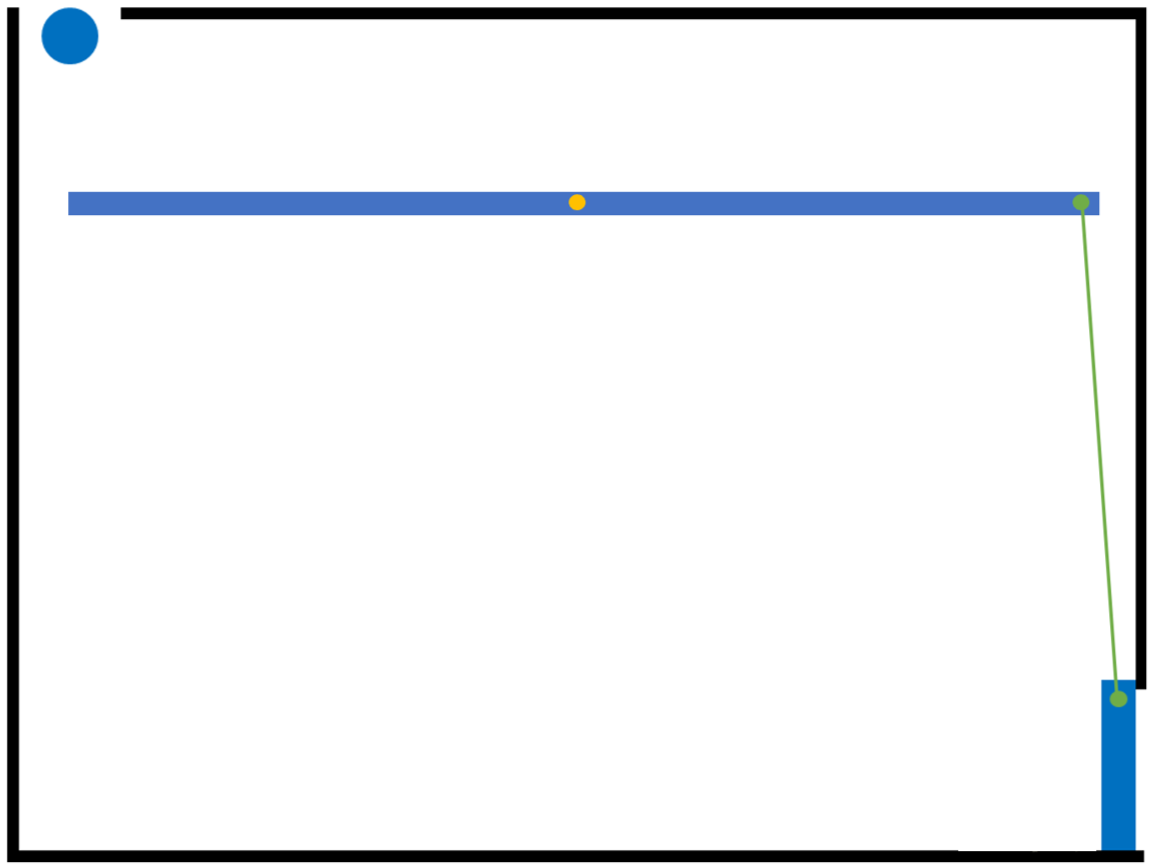
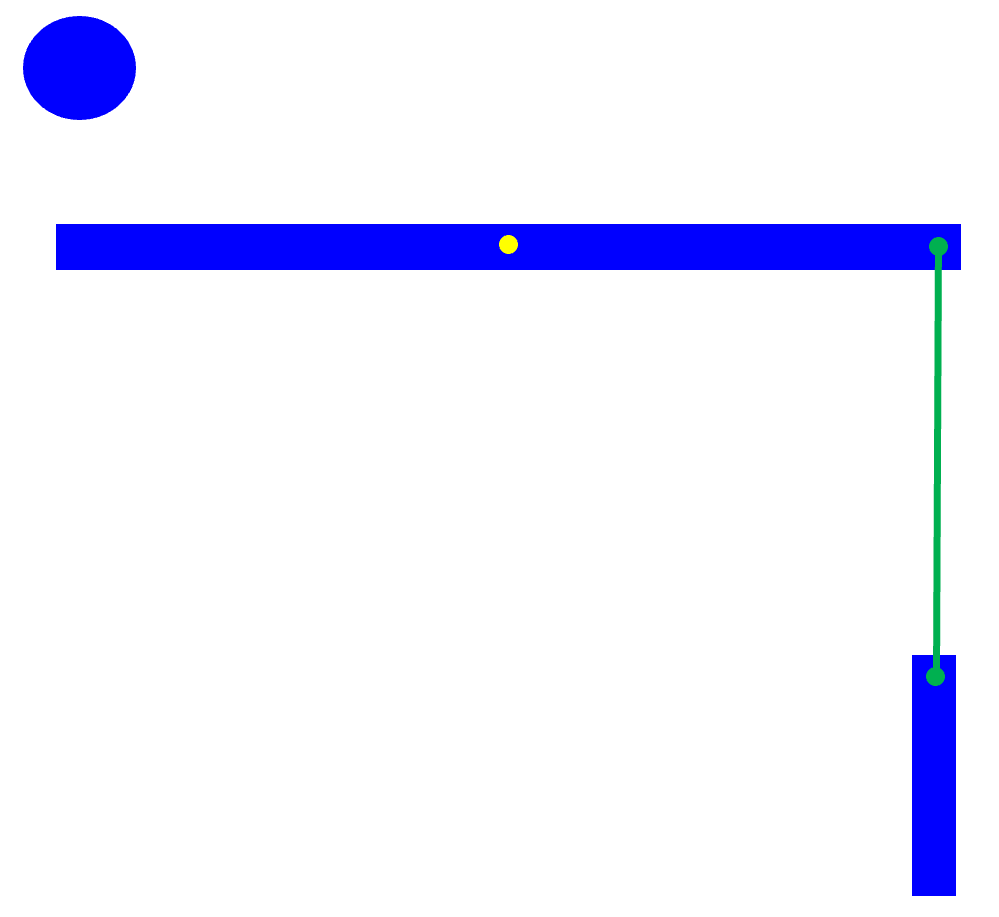
Changed-no-mouse

Changed region(s): [[0.0, 0.0, 1.0, 0.9977]]

diff --git a/main.py b/main.py
@@ -72,7 +72,7 @@ def run_machine(black,blue):
 	movieImages = [make_image(black,blue),]
 	i=0
 	#while someObjectsMoved:
-	while i < 15:
+	while i < 50:
 		i+=1
 		print('Step '+str(i))
 		#black[0].rotation += 1
@@ -94,15 +94,15 @@ def make_video(image1, images):
 
 
 def main():
-    image = cv2.imread("problems/small-test.png")
+    image = cv2.imread("problems/6-1-no-mouse.png")
     black,blue, green, yellow = segment_objects(image)
     #print(blue)
     print(len(black),len(blue),len(green),len(yellow))
     attach_yellows(blue,yellow)
-    blueO = blue[0]
-    blackO = black[0]
-    touchingVal, orientationVal = is_touching(blueO, blackO)
-    print(orientationVal)
+    # blueO = blue[0]
+    # blackO = black[0]
+    # touchingVal, orientationVal = is_touching(blueO, blackO)
+    # print(orientationVal)
     #move_shapes(blue,black)
     # im = make_image(black, blue)
     # im.show()
